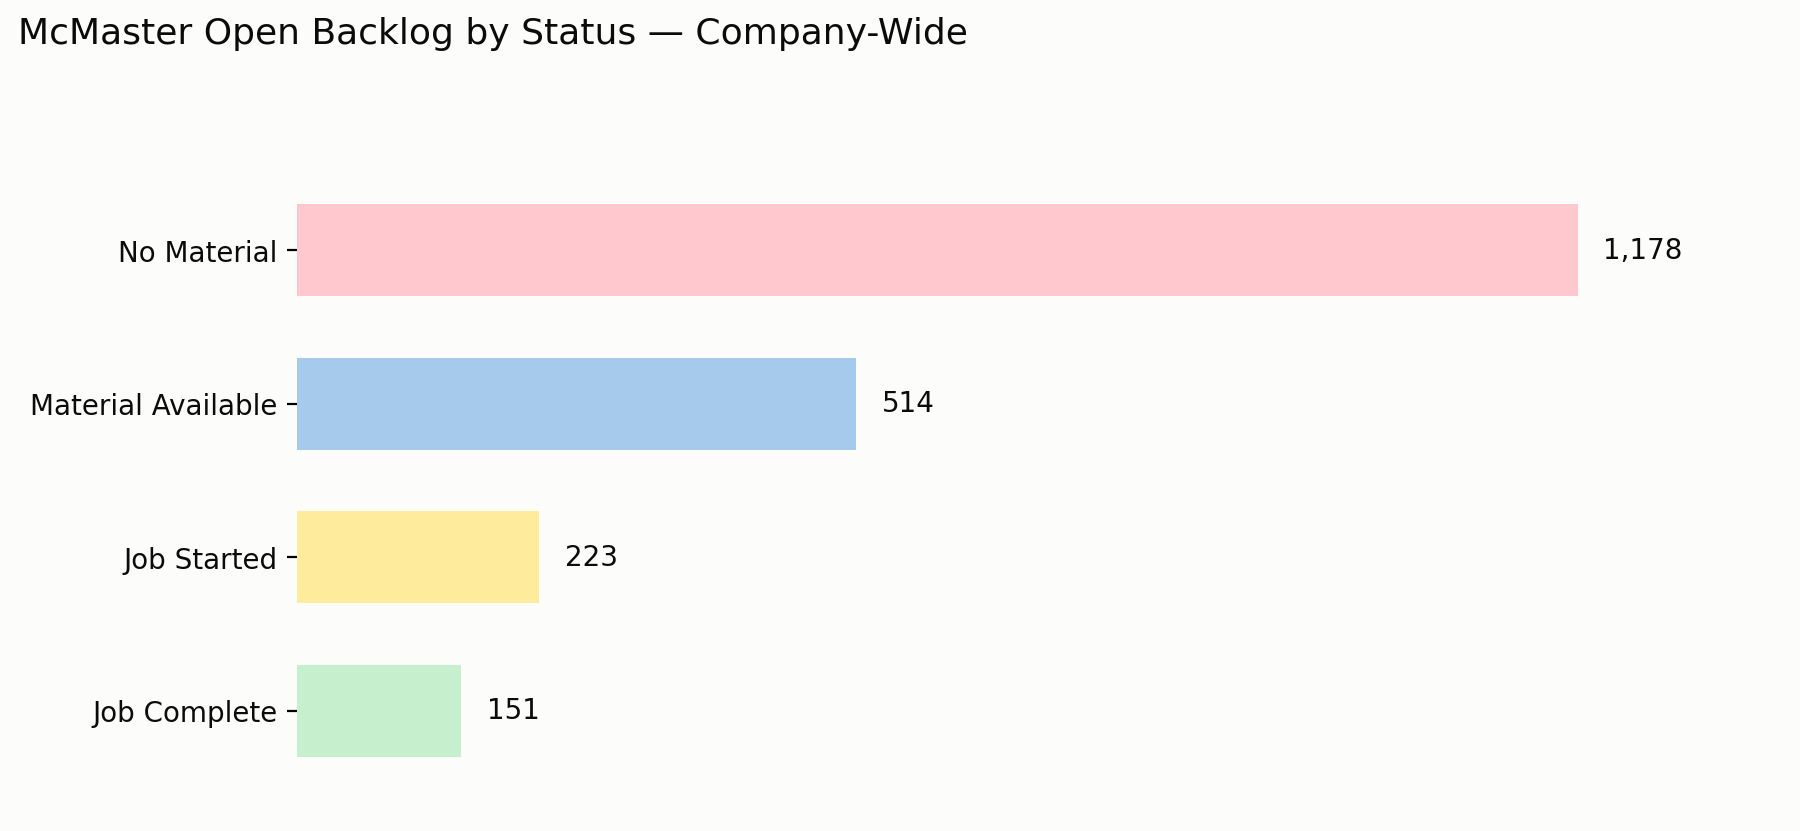
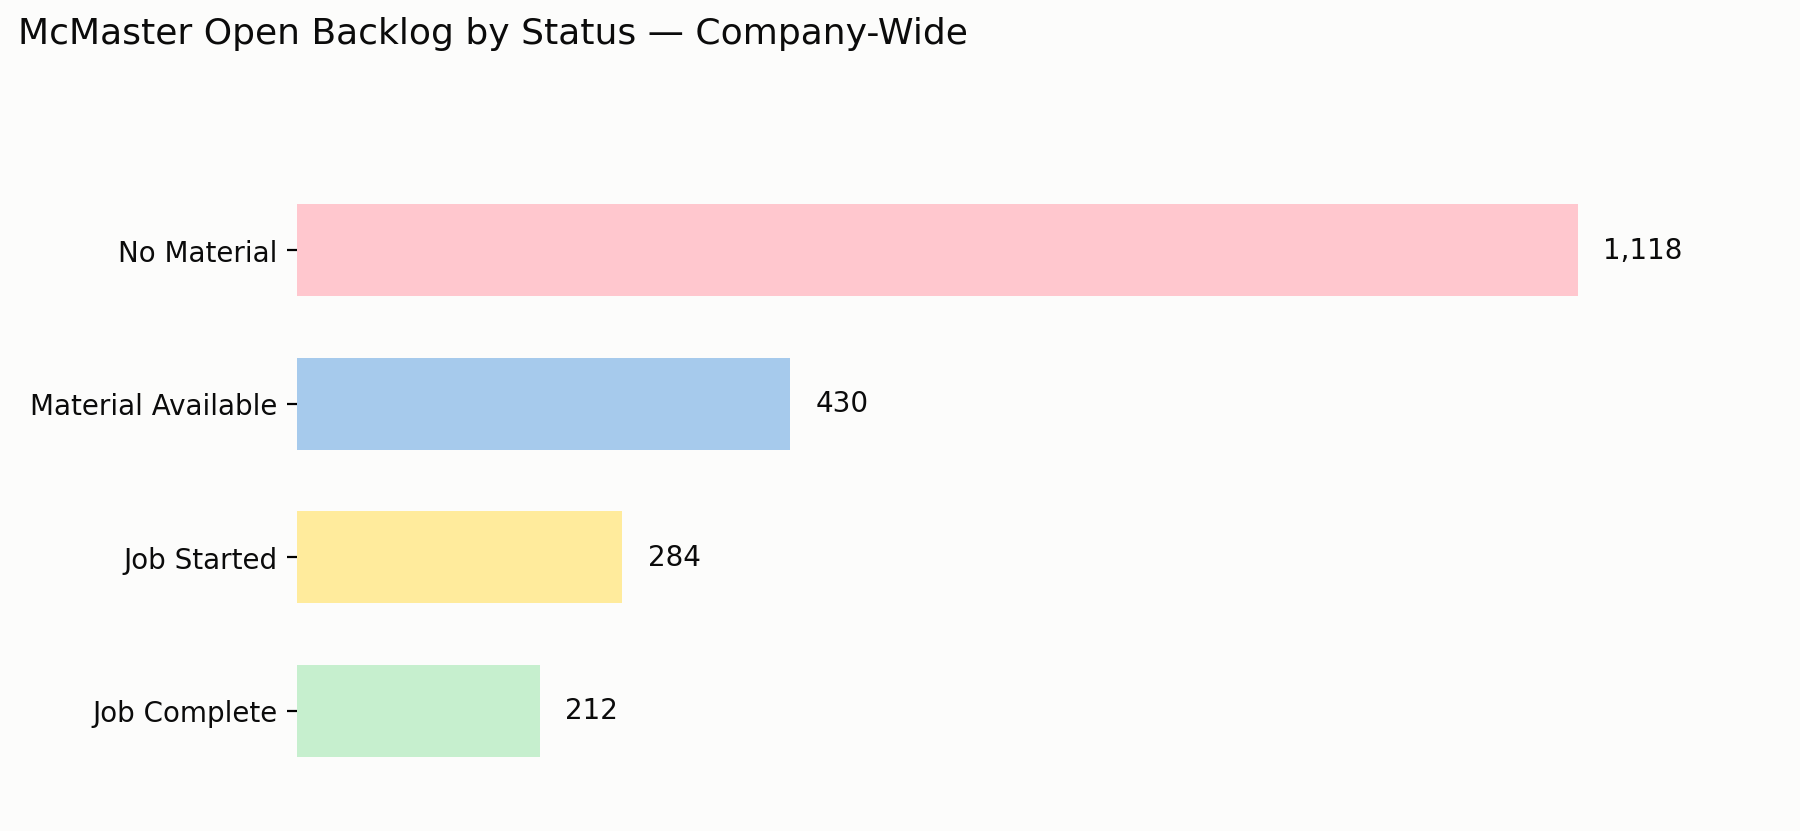
updates

Changed region(s): [[0.28, 0.6017, 0.4044, 0.7521], [0.2489, 0.7822, 0.3422, 0.9326], [0.4356, 0.4212, 0.5289, 0.5415]]

diff --git a/reports/mcmaster/mcmaster_email.py b/reports/mcmaster/mcmaster_email.py
@@ -3,8 +3,36 @@ from datetime import date
 
 import win32com.client as win32
 
-# TODO: add more recipients once this is validated — single recipient for now
-RECIPIENTS = "[email redacted]"
+TO_RECIPIENTS = "; ".join([
+    "[email redacted]",
+    "[email redacted]",
+    "[email redacted]",
+    "[email redacted]",
+    "[email redacted]",
+    "[email redacted]",
+    "[email redacted]",
+    "[email redacted]",
+    "[email redacted]",
+    "[email redacted]",
+    "[email redacted]",
+    "[email redacted]",
+    "[email redacted]",
+    "[email redacted]",
+    "[email redacted]",
+    "[email redacted]",
+    "[email redacted]",
+    "[email redacted]",
+])
+
+CC_RECIPIENTS = "; ".join([
+    "[email redacted]",
+    "[email redacted]",
+    "[email redacted]",
+    "[email redacted]",
+    "[email redacted]",
+    "[email redacted]",
+    "[email redacted]",
+])
 
 SHAREPOINT_LINK = "https://amcastle.sharepoint.com/:x:/s/Analytics_ETL/IQDTz5ZPOa4sSoDsdsp5vwERAdpTwZQr5kPnU5fafdS2wnA?e=jpRFI0"
 
@@ -26,7 +54,8 @@ def mcmaster_email(send_or_show: str = "show"):
     outlook = win32.Dispatch("outlook.application")
     mail = outlook.CreateItem(0)
 
-    mail.To = RECIPIENTS
+    mail.To = TO_RECIPIENTS
+    mail.CC = CC_RECIPIENTS
     mail.Subject = f"McMaster Backlog Report — {date.today():%d-%b-%Y}"
 
     mail.HTMLBody = f"""<div style="font-family: Calibri; font-size: 11pt;">

diff --git a/reports/mcmaster/mcmaster_output.py b/reports/mcmaster/mcmaster_output.py
@@ -421,6 +421,12 @@ SORT_KEYS = {
 
 _PURE_INT_RE = re.compile(r"-?\d+")
 
+# Excel stores numbers as IEEE-754 doubles, safely exact only up to 2**53.
+# A digit string longer than that either overflows numpy's int64 cast
+# outright (OverflowError) or silently loses precision once written to a
+# cell — so either way it must stay text, not get coerced to a number.
+_SAFE_INT_MAX = 2**53
+
 
 def _stringify_json_columns(df):
     """
@@ -464,7 +470,13 @@ def _coerce_numeric_text(df):
         candidates = not_na[digit_like]
         if not (candidates.apply(lambda v: str(int(v)) == v)).all():
             continue
-        df.loc[candidates.index, col] = candidates.astype(int)
+        if (candidates.map(lambda v: abs(int(v)) > _SAFE_INT_MAX)).any():
+            continue
+        # astype(int) maps to C's native "long", which is 32-bit on Windows
+        # even under 64-bit Python — explicit int64 avoids that platform-
+        # dependent overflow (values passing the _SAFE_INT_MAX check above
+        # are well within int64's range regardless).
+        df.loc[candidates.index, col] = candidates.astype("int64")
     return df
 
 

diff --git a/reports/productivity/productivity_email.py b/reports/productivity/productivity_email.py
@@ -2,8 +2,10 @@ import os
 import win32com.client as win32
 from reports.productivity.branch_config import BRANCHES
 
+DEFAULT_ORGS = ('ENA','ENT')
+
 #DEFAULT_ORGS = ('ASC','ENA','ENT', 'MCH','MTY','MXM','MXQ','SGP')
-DEFAULT_ORGS = ('ATL','CLE','DAL','HAI','JVL','LOS','STO','TOR','WIE')
+#DEFAULT_ORGS = ('ATL','CLE','DAL','HAI','JVL','LOS','STO','TOR','WIE')
 
 #DEFAULT_ORGS = ('ASC','ATL','CLE','DAL','ENA','ENT','HAI','JVL','LOS','MCH','MTY','MXM','MXQ','SGP','STO','TOR','WIE')
 

diff --git a/pipelines/run_all_ingest.py b/pipelines/run_all_ingest.py
@@ -161,7 +161,7 @@ def run_all_hr_ingestions():
 
 def run_all_ingestions():
     #run_all_banner_ingestions()
-    #run_all_castle_ingestions()
+    run_all_castle_ingestions()
     #run_all_vorne_ingestions()
     #run_all_other_ingestions()
     #run_all_hr_ingestions()

diff --git a/COMMANDS.md b/COMMANDS.md
@@ -35,7 +35,7 @@ Generates Excel files for the given month and saves them to:
 
 **Example:**
 ```
-python run.py productivity-output 2026 5
+python run.py productivity-output 2026 6
 ```
 
 ---
@@ -59,8 +59,8 @@ Excel files must already exist — run `productivity-output` first.
 
 **Examples:**
 ```
-python run.py productivity-email 2026 5 May26 show
-python run.py productivity-email 2026 5 May26 send
+python run.py productivity-email 2026 6 Jun26 show
+python run.py productivity-email 2026 6 May26 send
 ```
 
 ---